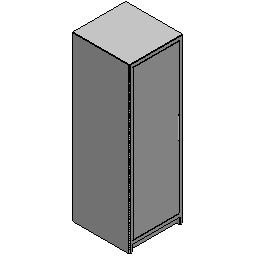
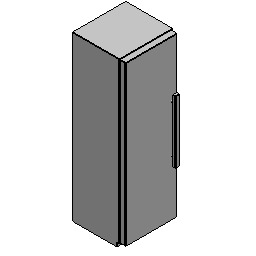
Make the fridge read as a fridge, not as a tall cabinet
Review caught it and was right: as shipped the front was a cabinet's -
perimeter reveal grooves cut into a shared face, with thin pulls lying on it
- wearing a fridge's proportions. Put beside the tall pantry in the browser
it was the same object twice.

An appliance's front is not a grooved carcass, so the massing changed:

- The doors are APPLIED SLABS standing 60mm proud of the body, not grooves
  cut into it, and they are inset 12mm all round and below the top so the
  body's own front face reads as the gasket frame a fridge door closes
  against. Each slab runs a millimetre into the body so the fuse joins them
  rather than leaving a body with two doors floating in front of it.

- The handles are grab bars: 42 x 26 flat bars standing 35mm off the door
  face on two 16mm posts, 55% of their own door and capped at 700mm, on the
  opening edge. Flat rather than round because the bar is what says "fridge"
  from the front, and a 30mm cylinder is a bare line at thumbnail scale -
  the library's own "square, not round" rule. A cabinet pull lies on the
  face; this one visibly stands off it.

- The plinth is a full-width 45mm vent recess with the doors coming down to
  it, rather than a cabinet's inset toe kick with a 100mm gap under the
  doors.

The depth budget follows the bar: its face is the frontmost point of the
part, so the advertised 650 includes the handles the way an appliance is
measured. The door plane sits 61mm back from the origin and the body takes
[…]

Changed region(s): [[0.4375, 0.0938, 0.7188, 1.0]]

diff --git a/archplus/tools/partslib/library/basic/fridge/builder.py b/archplus/tools/partslib/library/basic/fridge/builder.py
@@ -1,33 +1,80 @@
 # SPDX-License-Identifier: LGPL-2.1-or-later
+#
+# A freestanding fridge. Reading as a fridge and not as a tall cabinet is a
+# massing problem, not a detailing one, and it comes down to two things no
+# cabinet in this library has: its front is an APPLIED door slab standing
+# proud of the body, with the body's own front face showing as a frame round
+# it, and its handles are long grab bars standing off the door on posts
+# rather than pulls lying on it.
 
 from archplus.tools.partslib import shapes as sh
 
 # The freezer's share of the front, taken off the bottom. The door split is
 # the only thing a fridge-freezer changes about the box it stands in.
 _FREEZER_SHARE = 0.3
-# The gap two stacked doors leave between them, the height of the seam
-# `_shared.doors()` cuts between columns.
-_DOOR_SEAM = 4.0
-# Handle hardware: bar radius, how far the pull's centre sits from the
-# opening edge, and the longest pull that still looks like a fridge handle.
-_HANDLE_RADIUS = 8.0
-_HANDLE_INSET = 45.0
-_HANDLE_MAX = 240.0
+# The gasket: the body's front face stays visible this wide all round each
+# door slab. A door cut flush to the cabinet's edges is a cabinet door.
+_GASKET = 12.0
+_DOOR_THICKNESS = 60.0
+_DOOR_SEAM = 6.0
+# Handle hardware: a flat 42mm grab bar standing 35mm off the door face on
+# two posts. Flat, because the bar is what says "fridge" from the front and a
+# 30mm cylinder is a bare line at thumbnail scale.
+_HANDLE_WIDTH = 42.0
+_HANDLE_DEPTH = 26.0
+_HANDLE_STANDOFF = 35.0
+_POST_RADIUS = 8.0
+_HANDLE_EDGE_INSET = 55.0
+# A fridge door's handle is a long grab, not a cabinet pull - this share of
+# its own door, capped so the freezer's does not run the whole height.
+_HANDLE_SHARE = 0.55
+_HANDLE_MAX = 700.0
+# The plinth: a full-width recess, the vent gap a fridge stands on rather
+# than a cabinet's inset toe kick.
+_KICK_HEIGHT = 45.0
+_KICK_DEPTH = 30.0
+# The frontmost point of the part is the bar's own face, so the door plane
+# sits the bar's depth and its standoff back from the origin, and everything
+# else behind that. The advertised Depth therefore includes the handles,
+# which is how an appliance is measured.
+_DOOR_PLANE = _HANDLE_DEPTH + _HANDLE_STANDOFF
 
 
 def _row_edges(height, kick_height, configuration):
-    """The door row boundaries, top down, from the unit top to the kick."""
+    """The door row boundaries, top down, from the door head to the plinth."""
     shares = ([1.0 - _FREEZER_SHARE, _FREEZER_SHARE]
               if configuration == "fridge-freezer" else [1.0])
-    edges = [height]
+    top = height - _GASKET
+    edges = [top]
     for share in shares:
-        edges.append(edges[-1] - (height - kick_height) * share)
+        edges.append(edges[-1] - (top - kick_height) * share)
     return edges
 
 
+def _handle(door_width, slab_height, slab_bottom):
+    """One door's grab bar: a flat bar on two posts, standing off the door
+    face on the opening side so the gap between bar and door reads."""
+    length = min(_HANDLE_MAX, slab_height * _HANDLE_SHARE)
+    if length <= 0:
+        return []
+    # On the opening edge: the slab's own edge, in from it by the inset.
+    x = _GASKET + door_width - _HANDLE_EDGE_INSET
+    bottom = slab_bottom + (slab_height - length) / 2.0
+    parts = [sh.place(sh.rounded_box(_HANDLE_WIDTH, _HANDLE_DEPTH, length,
+                                     radius=6),
+                      x - _HANDLE_WIDTH / 2.0, 0.0, bottom)]
+    # The posts run from the bar's back face to a millimetre inside the slab,
+    # so the fuse has material to join rather than a coincident face.
+    post_length = _DOOR_PLANE - _HANDLE_DEPTH + 1.0
+    for fraction in (0.12, 0.88):
+        parts.append(sh.place(sh.bar(post_length, _POST_RADIUS, along="y"),
+                              x, _HANDLE_DEPTH, bottom + length * fraction))
+    return parts
+
+
 def build(params, assets, ctx):
-    """A freestanding fridge or fridge-freezer: a tall insulated box with
-    recessed door fronts, bar handles and a compressor plinth.
+    """A freestanding fridge or fridge-freezer: an insulated body with an
+    applied door slab proud of its front, on standoff grab handles.
 
     Params: Width, Depth, Height (mm), Configuration (Choice of "fridge" or
     "fridge-freezer").
@@ -42,41 +89,31 @@ def build(params, assets, ctx):
     if configuration not in ("fridge", "fridge-freezer"):
         configuration = "fridge"
 
-    # The handles are the frontmost thing on the part, so the cabinet is
-    # built one handle radius back from the origin and shifted forward at the
-    # end: the advertised Depth then includes the handles, which is how an
-    # appliance is measured.
-    body_depth = max(depth - _HANDLE_RADIUS, 1.0)
-    kick_height = min(80.0, height * 0.05)
-    margin = min(35.0, width * 0.06)
+    body_depth = max(depth - _DOOR_PLANE - _DOOR_THICKNESS, 1.0)
+    body = sh.rounded_box(width, body_depth, height, radius=12)
+    body = sh.place(body, 0, _DOOR_PLANE + _DOOR_THICKNESS, 0)
+    body = sh.cut_boxes(body, [
+        (0.0, _DOOR_PLANE + _DOOR_THICKNESS - 1.0, -1.0,
+         width, _KICK_DEPTH, _KICK_HEIGHT)])
 
-    box = sh.rounded_box(width, body_depth, height, radius=10)
-    box = sh.toe_kick(box, width, body_depth, kick_height=kick_height,
-                      kick_depth=min(40.0, body_depth * 0.07))
-
-    edges = _row_edges(height, kick_height, configuration)
-    cuts = []
-    pulls = []
+    door_width = max(width - 2.0 * _GASKET, 1.0)
+    edges = _row_edges(height, _KICK_HEIGHT, configuration)
+    doors = []
+    handles = []
     for index in range(len(edges) - 1):
         top, bottom = edges[index], edges[index + 1]
-        low = bottom + (_DOOR_SEAM / 2.0 if bottom > kick_height else margin)
-        high = top - (_DOOR_SEAM / 2.0 if top < height else margin)
-        panel_height = high - low
-        if panel_height <= 0:
+        low = bottom + (_DOOR_SEAM / 2.0 if bottom > _KICK_HEIGHT else 0.0)
+        high = top - (_DOOR_SEAM / 2.0 if top < height - _GASKET else 0.0)
+        slab_height = high - low
+        if slab_height <= 0:
             continue
-        if bottom > kick_height:
-            cuts.append((margin, -1.0, bottom - _DOOR_SEAM / 2.0,
-                         width - 2 * margin, 10.0, _DOOR_SEAM))
-        cuts.extend(sh.panel_reveal_boxes(
-            margin, low, width - 2 * margin, panel_height,
-            groove=6.0, depth=10.0))
-        # One vertical pull per door on the opening edge, sized to its own
-        # door so the freezer's short one does not look borrowed.
-        length = min(_HANDLE_MAX, panel_height * 0.3)
-        pulls.append(sh.place(
-            sh.bar(length, _HANDLE_RADIUS, along="z"),
-            width - min(_HANDLE_INSET, width * 0.08), 0.0,
-            low + (panel_height - length) / 2.0))
+        # A millimetre deeper than it shows: the slab's back face sits just
+        # inside the body rather than on it, which is the difference between
+        # one part and a body with two doors floating in front of it.
+        doors.append(sh.place(
+            sh.rounded_box(door_width, _DOOR_THICKNESS + 1.0, slab_height,
+                           radius=10),
+            _GASKET, _DOOR_PLANE, low))
+        handles.extend(_handle(door_width, slab_height, low))
 
-    box = sh.cut_boxes(box, cuts)
-    return sh.place(sh.fuse_all([box] + pulls), 0, _HANDLE_RADIUS, 0)
+    return sh.fuse_all([body] + doors + handles)
